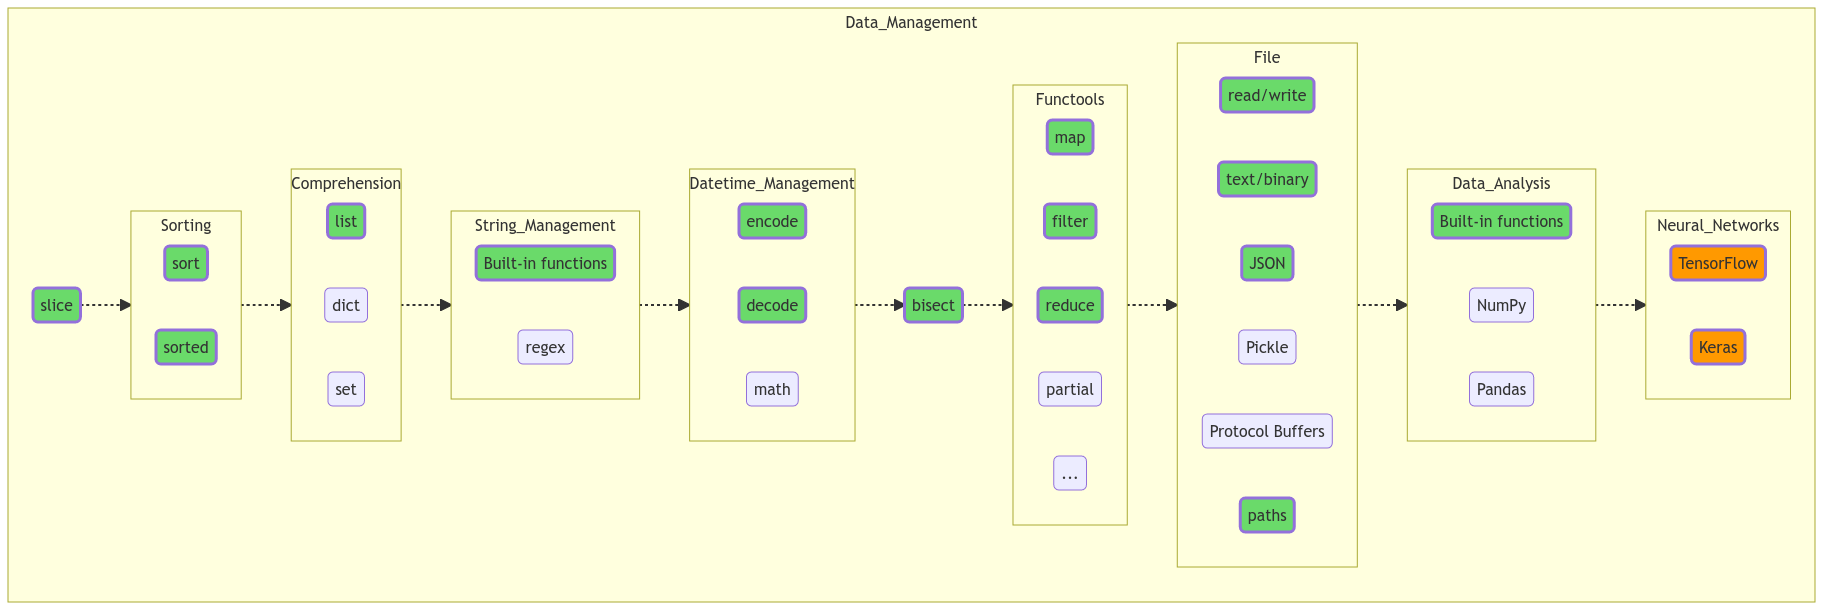
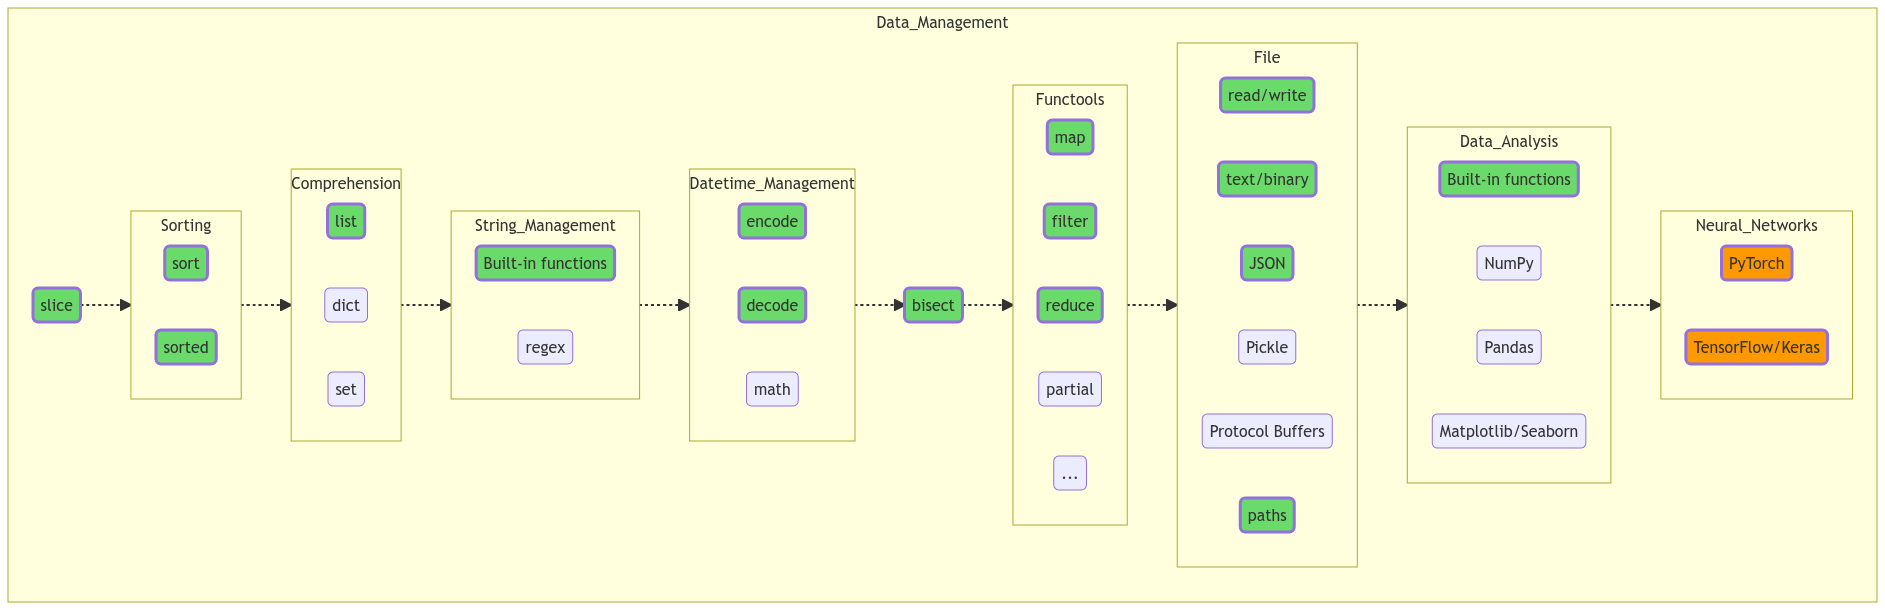
Update 'Data Management' section Add Matplotlib, Seaborn and PyTorch

diff --git a/02_Data_Management.md b/02_Data_Management.md
@@ -62,12 +62,13 @@ direction LR
 Data_Built-in_Functions("Built-in functions")
 NumPy(NumPy)
 Pandas(Pandas)
+Matplotlib_Seaborn("Matplotlib/Seaborn")
 end
 
 subgraph Neural_Networks
 direction LR
-TensorFlow(TensorFlow)
-Keras(Keras)
+PyTorch(PyTorch)
+TensorFlow("TensorFlow/Keras")
 end
 
 end
@@ -105,13 +106,12 @@ class Data_Built-in_Functions trainee;
 class icount trainee;
 class icycle trainee;
 class irepeat trainee;
-class pairwise trainee;
 class product trainee;
 class combinations trainee;
 class enumerate trainee;
-class generator trainee;
+class yield trainee;
 class decorator trainee;
-class context trainee;
+class enter_exit_cm trainee;
 class oopBase1 trainee;
 class oop_property trainee;
 class staticmethod trainee;
@@ -207,7 +207,6 @@ class Encapsulation trainee;
 class Polymorphism trainee;
 class Abstraction trainee;
 class trunk_based_development trainee;
-class aiohttp trainee;
 class StreamHandler trainee;
 class Observer trainee;
 class Decorator_Method trainee;
@@ -221,7 +220,16 @@ class GitHub trainee;
 class Install trainee;
 class Directory_Structure trainee;
 class Terminal trainee;
+class accumulate trainee;
+class chain trainee;
+class compress trainee;
+class dropwhile trainee;
+class takewhile trainee;
+class typing_loc trainee;
+class REST trainee;
+class Postman trainee;
 
+class GraphQL middle;
 class bash middle;
 class System_administration middle;
 class Network_administration middle;
@@ -252,4 +260,5 @@ class ELK_Stack middle;
 class Pattern_of_Distributed_Systems middle;
 class Cloud_Design_Patterns middle;
 class New_Relic middle;
+class PyTorch middle;
 ```

diff --git a/13_Full.md b/13_Full.md
@@ -121,12 +121,13 @@ direction LR
 Data_Built-in_Functions("Built-in functions")
 NumPy(NumPy)
 Pandas(Pandas)
+Matplotlib_Seaborn("Matplotlib/Seaborn")
 end
 
 subgraph Neural_Networks
 direction LR
-TensorFlow(TensorFlow)
-Keras(Keras)
+PyTorch(PyTorch)
+TensorFlow("TensorFlow/Keras")
 end
 
 end
@@ -882,4 +883,5 @@ class ELK_Stack middle;
 class Pattern_of_Distributed_Systems middle;
 class Cloud_Design_Patterns middle;
 class New_Relic middle;
+class PyTorch middle;
 ```
